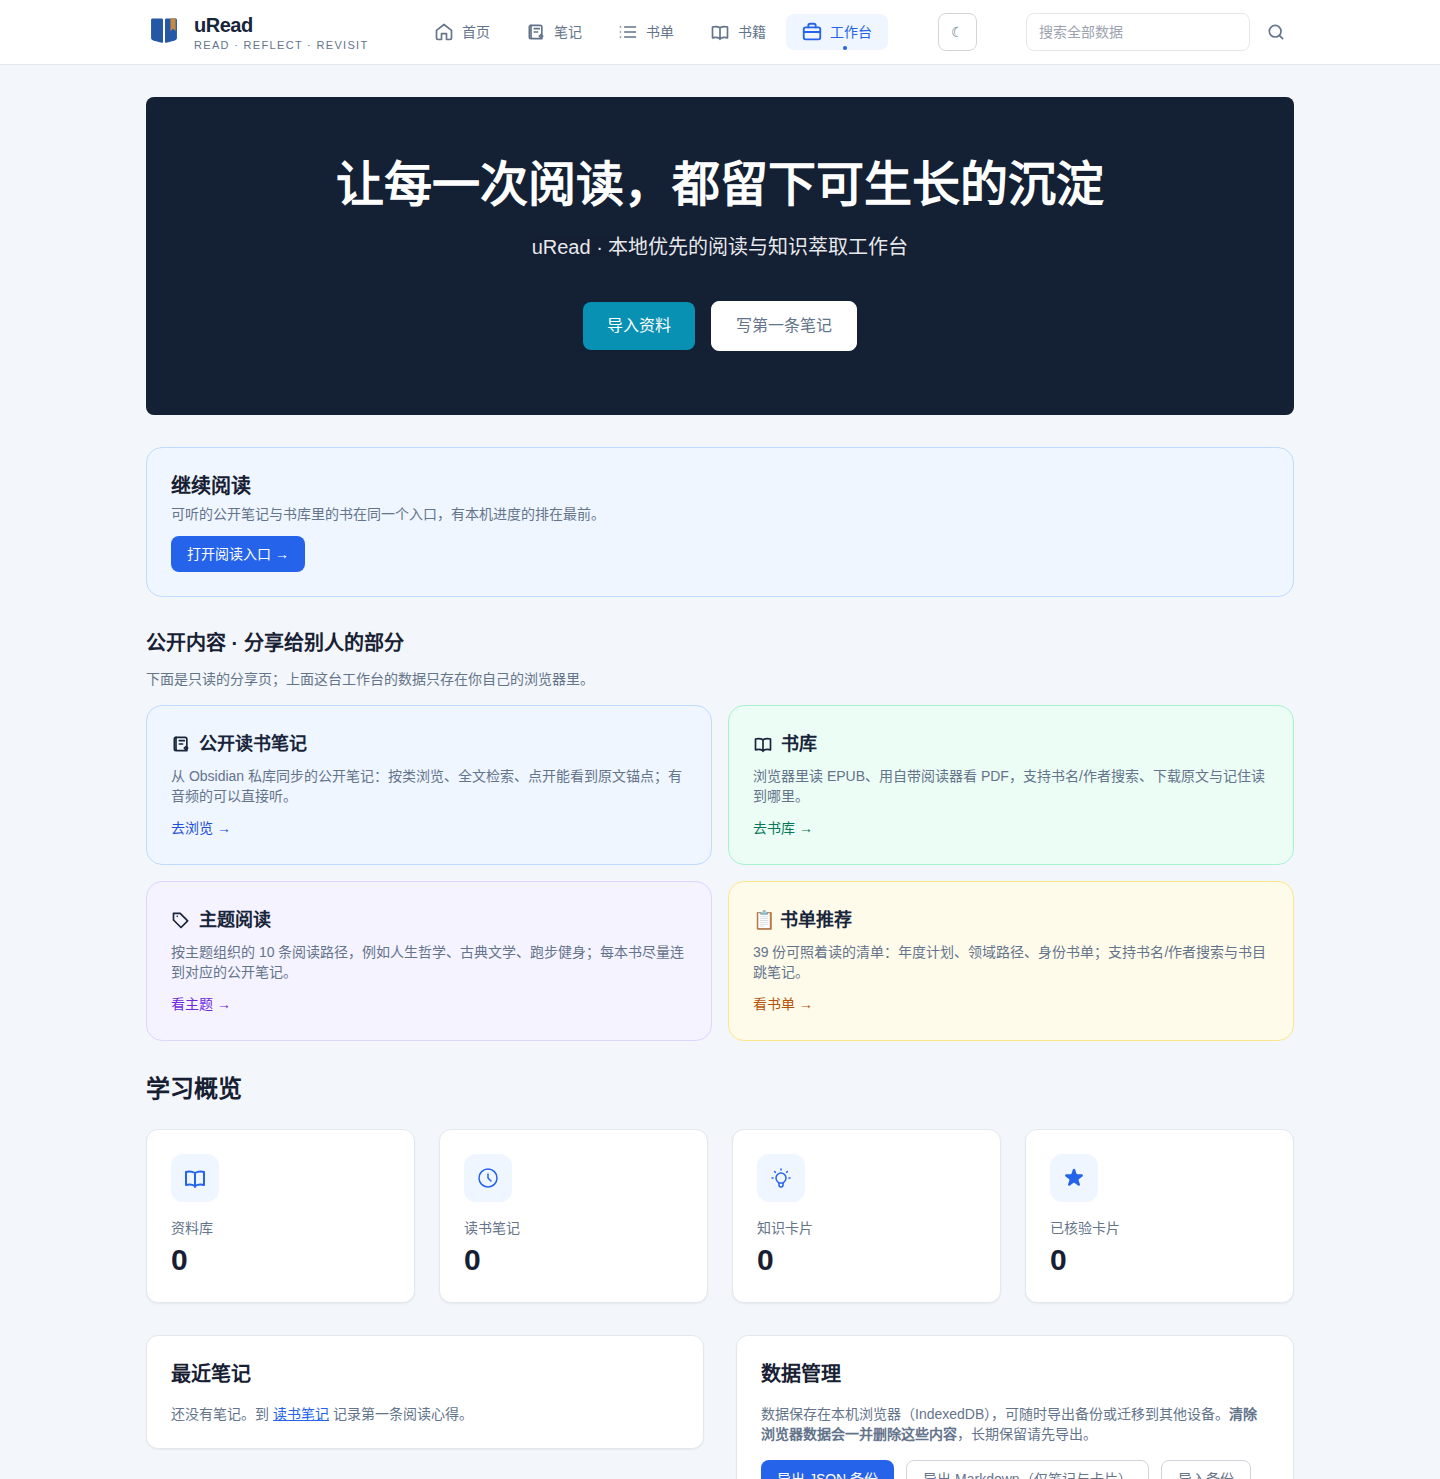
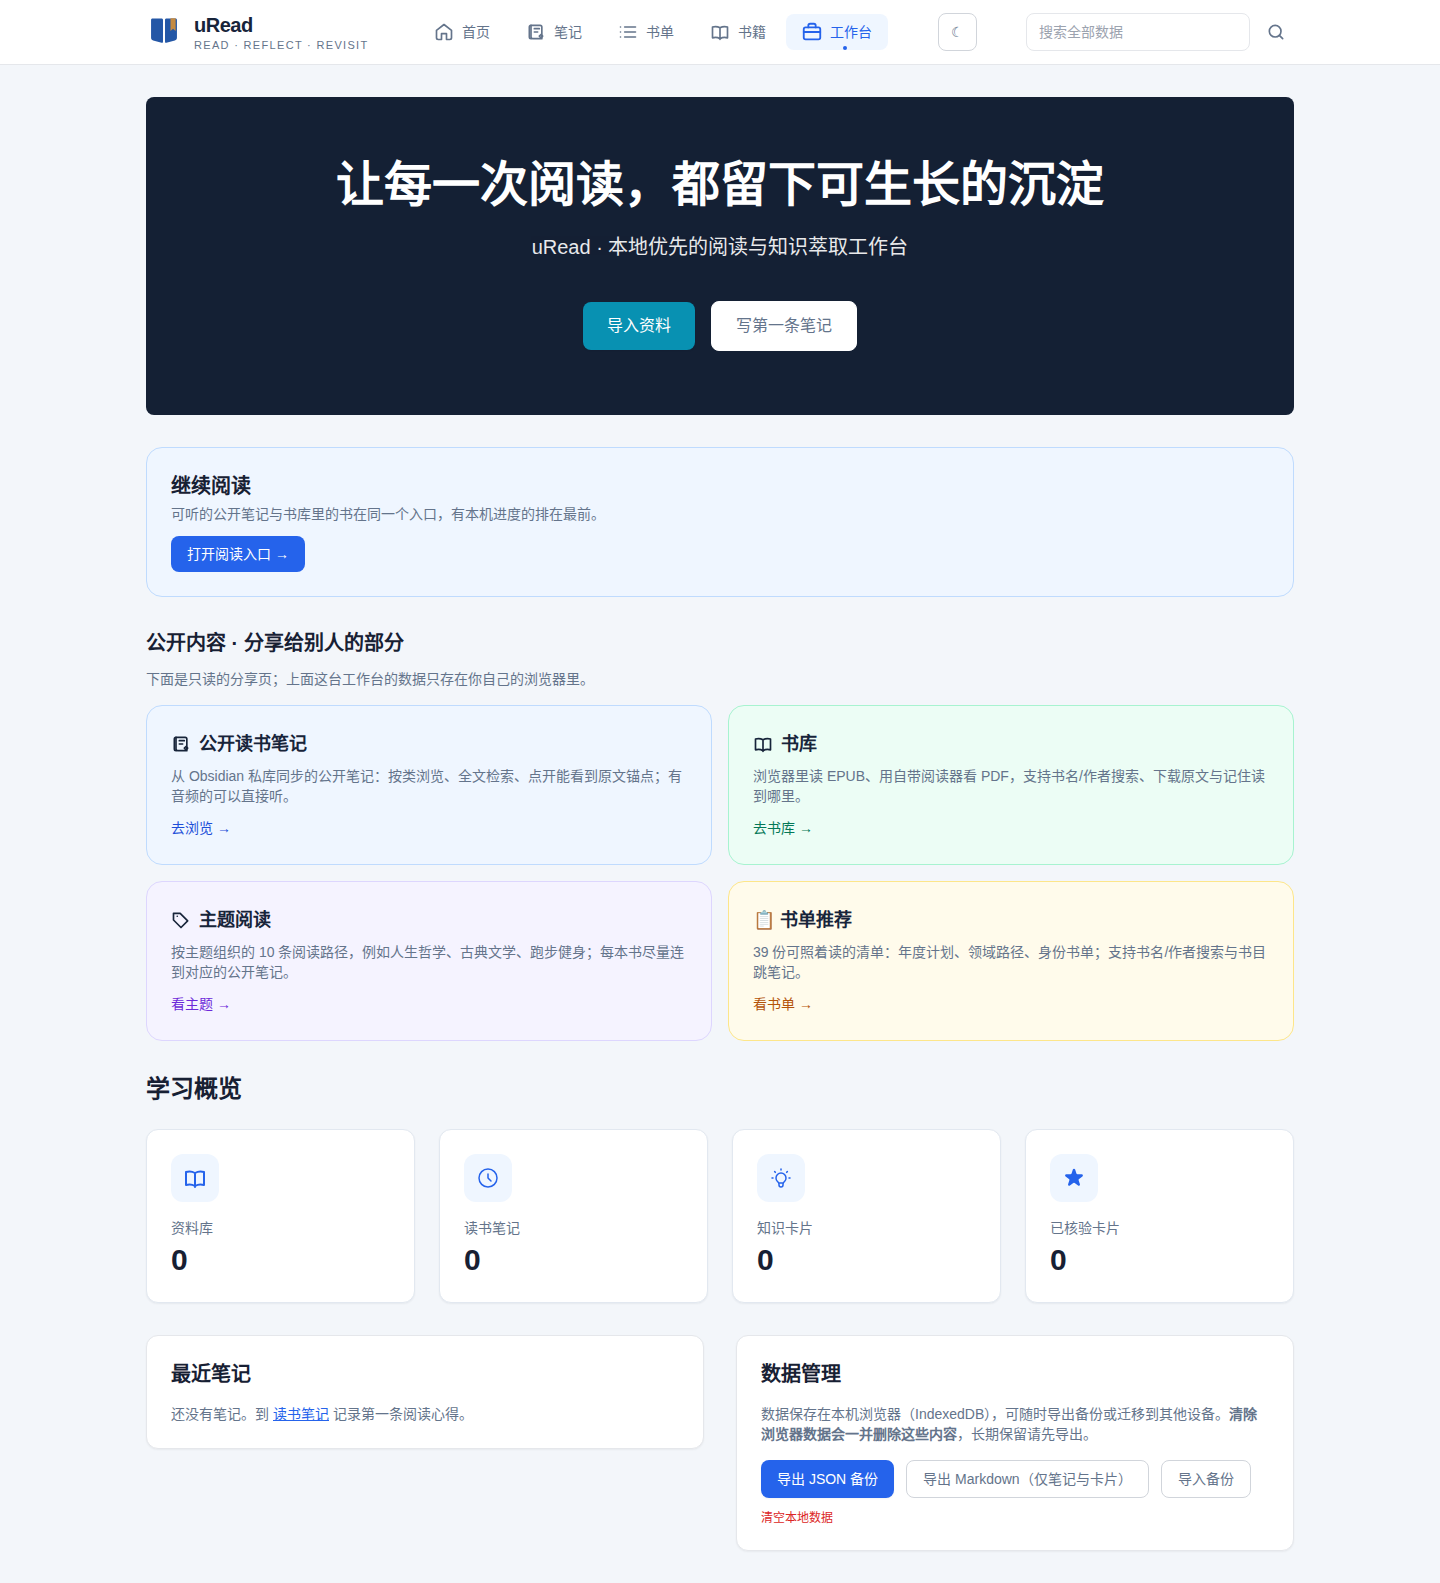
ux: 听读按钮文案改为「收听」

diff --git a/src/views/PublicNoteDetailView.tsx b/src/views/PublicNoteDetailView.tsx
@@ -159,7 +159,7 @@ const PublicNoteDetailView: React.FC = () => {
           ) : player.state === 'paused' ? (
             <button type="button" onClick={player.resume} className="rounded border border-border px-3 py-1.5 text-xs">继续</button>
           ) : (
-            <button type="button" onClick={() => player.play(0)} className="rounded bg-brand px-3 py-1.5 text-xs text-white">用设备语音朗读</button>
+            <button type="button" onClick={() => player.play(0)} className="rounded bg-brand px-3 py-1.5 text-xs text-white">收听</button>
           )}
           <button type="button" onClick={player.previous} disabled={!player.segment} className="rounded border border-border px-2 py-1.5 text-xs">上一段</button>
           <button type="button" onClick={player.next} disabled={!player.segment} className="rounded border border-border px-2 py-1.5 text-xs">下一段</button>

diff --git a/tests/views/public-notes.test.tsx b/tests/views/public-notes.test.tsx
@@ -105,7 +105,7 @@ describe('公开笔记详情', () => {
   it('没有 WAV 时也提供设备语音朗读，不放假播放器', async () => {
     renderDetail(noteB.slug);
     expect(await screen.findByText('思考的快与慢')).toBeInTheDocument();
-    expect(screen.getByRole('button', { name: '用设备语音朗读' })).toBeInTheDocument();
+    expect(screen.getByRole('button', { name: '收听' })).toBeInTheDocument();
     expect(screen.getByRole('button', { name: '复制笔记链接' })).toBeInTheDocument();
     expect(document.querySelector('audio')).toBeNull();
   });

diff --git a/tests/e2e/key-paths.spec.ts b/tests/e2e/key-paths.spec.ts
@@ -19,7 +19,7 @@ test('公开笔记详情有来源与分区，无 WAV 也能朗读', async ({ pag
   await expect(page.locator('article')).toBeVisible();
   await expect(page.getByRole('heading', { name: '相关阅读' })).toBeVisible();
   const audioCount = await page.locator('audio').count();
-  const listenButton = await page.getByRole('button', { name: '用设备语音朗读' }).count();
+  const listenButton = await page.getByRole('button', { name: '收听' }).count();
   expect(audioCount > 0 || listenButton > 0).toBeTruthy();
 });
 
